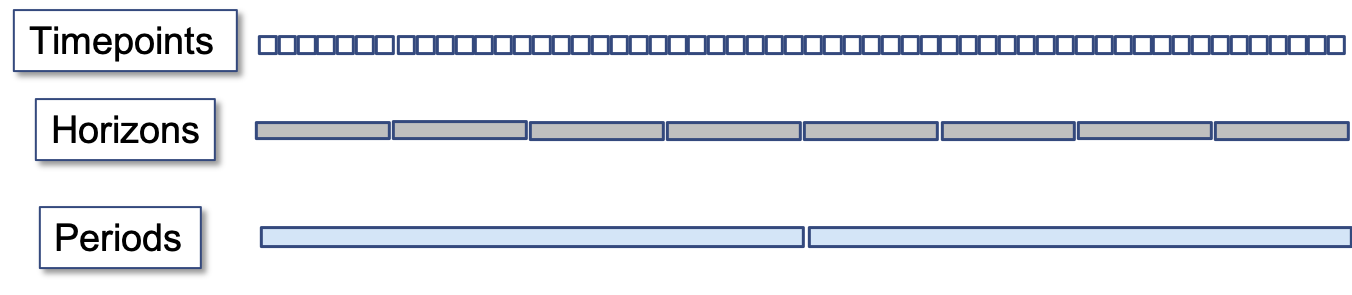
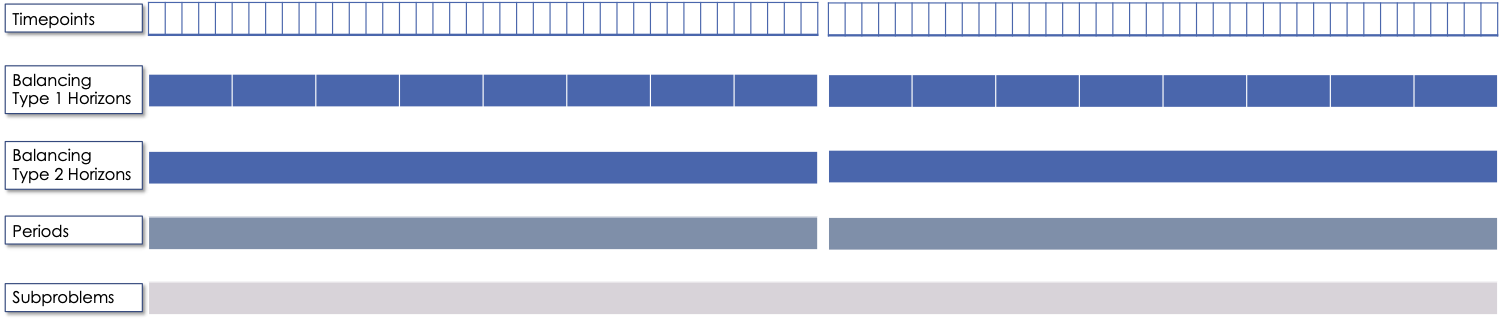
Update temporal setup docs

diff --git a/doc/source/functionality.rst b/doc/source/functionality.rst
@@ -22,77 +22,106 @@ The temporal units include:
 Timepoints
 ----------
 
-Timepoints are the finest resolution over which operational decisions are
+*Timepoints* are the finest resolution over which operational decisions are
 made (e.g. an hour). Generator commitment and dispatch decisions are made for
 each timepoint, with some constraints applied across timepoints (e.g. ramp
 constraints.) Most commonly, a timepoint is an hour, but the resolution is
 flexible: a timepoint could also be a 15-minute, 5-minute, 1-minute, or 4-hour
-segment. Different timepoint durations can also be mixed, so some can be
+segment. Different timepoint durations can also be mixed, e.g. some can be
 5-minute segments and some can be hours.
 
-Horizons
---------
+Timepoints can also be assigned weights in order to represent other
+timepoints that are not modeled explicitly (e.g. use a 24-hour period per month
+to represent the whole month using the number of days in that month for the
+weight of each of the 24 timepoints).
 
-Each timepoint belongs to a 'horizon' that describes how
-timepoints are grouped together when making operational decisions, with some
-operational constraints enforced over the 'horizon,' e.g. hydro budgets or
-storage energy balance. Horizons are modeled as independent from each other
-for operational purposes (i.e operational decisions made on one horizon do
-not affect those made on another horizon). A 'horizon' is most commonly a
-day -- e.g. we usually model a year of system operations a day at a time --
-but can be any other duration, e.g. we could model the year a week at a
-time, a month at a time, etc. Horizon durations can also be mixed. The
-horizon boundary condition can be 'circular' or 'linear.' With the
-'circular' approach, the last timepoint of the horizon is considered the
+Balancing Types and Horizons
+----------------------------
+
+GridPath organizes timepoints into *balancing types* and *horizons* that
+describe how *timepoints* are grouped together when making operational
+decisions, with some operational constraints enforced over the *horizon* for
+each *balancing type*, e.g. hydro budgets or storage energy balance. As a
+simple example, in the case of modeling a full year with 8760 timepoints, we
+could have three *balancing types*: a day, a month, and a year; there would
+then be 365 *horizons* of the *balancing type* 'day,' 12 *horizons* of the
+*balancing type* 'month,' and 1 *horizon* of the *balancing type* 'year.'
+Within each balancing types, horizons are modeled as independent from each
+other for operational purposes (i.e operational decisions made on one
+horizon do not affect those made on another horizon). Generator and storage
+resources in GridPath are also assigned *balancing types*: a hydro plant
+of the *balancing type* 'day' would have to meet an energy budget constraint
+on each of the 365 'day' *horizons* whereas one of the *balancing type*
+'year' would only have a single energy budget constraint grouping all 8760
+timepoints.
+
+Each *horizon* has boundary condition that can be 'circular' or 'linear.' With
+the 'circular' approach, the last timepoint of the horizon is considered the
 previous timepoint for the first timepoint of the horizon (for the purposes
 of functionality such as ramp constraints or tracking storage state of
 charge). If the boundary is 'linear,' then we ignore constraints relating to
 the previous timepoint in the first timepoint of a horizon.
 
-In production simulation, we usually optimize a single horizon at a time (e.g.
-each of the year's 365 days is modeled individually) and sum the results. In
-a capacity-expansion model, we usually include multiple horizons in the same
-optimization (but they are independent from each other for operational
-purposes). In a capacity-expansion context, however, we usually do not model
-the full study period explicitly; instead, due to computational
-constraints, we use a sample of horizons and assign weights to them in order
-to represent the full set of horizons (e.g. use one day per month to
-represent the whole month using the number of day in that month for the
-horizon weight).
+
+Periods
+-------
+
+Each *timepoint* in a GridPath model also belong to a *period* (e.g. an year),
+which describes when decisions to build or retire infrastructure are made. A
+*period* must be specified in both capacity-expansion and production-cost
+model. In a production-cost simulation context, we can use the period to
+exogenously change the amount of available capacity, but the *period*
+temporal unit is mostly used in the capacity-expansion approach, as it
+defines when capacity decisions are made and new infrastructure becomes
+available (or is retired). That information in turn feeds into the horizon-
+and timepoint-level operational constraints, i.e. once a generator is build,
+the optimization is allowed to operate it in subsequent periods (usually for
+the duration of the generators's lifetime). The *period* duration is
+flexible: e.g. capacity decisions can be made every month, every year, every
+10 years, etc. A discount factor can also be applied to weight costs
+differently depending on when they are incurred.
+
+
+Subproblems
+-----------
+
+In production-cost simulation, we often model operations during a full
+year, e.g. at an hourly resolution (8760 *timepoints*). However, not all
+*timepoints* are optimized together. Usually, each day or week of the year
+is optimized separately. In GridPath, these separate optimizations are
+called *subproblems*. Each *subproblem* can then contain different balancing
+types and horizons. For example, if we are optimizing the year's operations
+a week at a time, we would have 52 *subproblems*. Each one of those
+*subproblems* could then have two *balancing types* -- a week and a day --
+meaning each *timepoint* in the *subproblem* would belong to one of seven
+'day' *horizons* and the single 'week' *horizon* (i.e. some resources would
+have to be balanced on each day of the week and some over the entire week).
+
+Unlike in production-cost simulation, in capacity-expansion mode, we usually
+have only a single subproblem.
+
+Stages
+------
 
 GridPath also has multi-stage commitment functionality, i.e. decisions made
-for a horizon can be fixed and the feed into a next stage with some updated
+for a subproblem can be fixed and then fed into a next stage with some updated
 parameters (e.g. an updated load and renewable output forecast). The number
 of stages is flexible and the timepoint resolution can change from stage to
 stage. The typical temporal setup for production cost simulation
 (multi-stage with horizons optimized one at a time) is shown below:
 
-.. image:: ../graphics/temporal_prod_cost.png
+Examples
+--------
 
-.. todo: don't remember if we can change the timepoint resolution from stage
-    to stage yet?
-
-Periods
--------
-
-Each timepoint and horizon belong to a 'period' (e.g. an year),
-which describes when decisions to build or retire infrastructure can be made.
-In a production-cost simulation context, we can use the period to
-exogenously change the amount of available capacity, but the 'period'
-temporal unit is mostly used i n the capacity-expansion approach, as it
-defines when capacity decisions are made and new infrastructure becomes
-available (or is retired). That information in turn feeds into the horizon-
-and timepoint-level operational constraints, i.e. once a generator is build,
-the optimization is allowed to operate in subsequent periods (usually for the
-duration of the generators's lifetime). The 'period' resolution is also
-flexible: e.g. capacity decisions can be made every month, every year, every
-10 years, etc. A discount factor can also be applied to weigh costs
-differently depending on when they are incurred.
-
-The typical temporal setup for capacity-expansion modeling
-(all timepoints/horizons/periods optimized simultaneously) is shown below:
+Typical temporal setup for capacity-expansion modeling is shown below:
 
 .. image:: ../graphics/temporal_cap_exp.png
+
+
+Typical temporal setup for production-cost modeling is shown below:
+
+.. image:: ../graphics/temporal_prod_cost.png
+
 
 
 Geographic Setup
